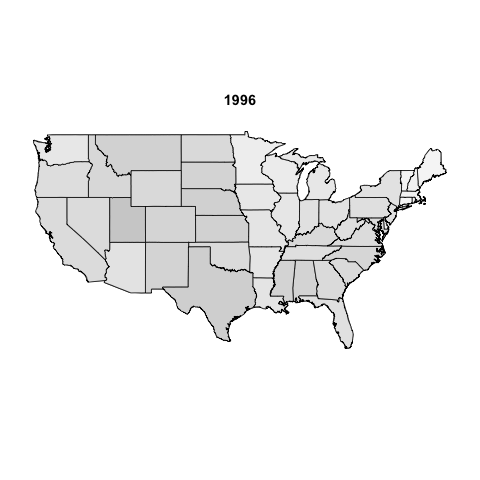
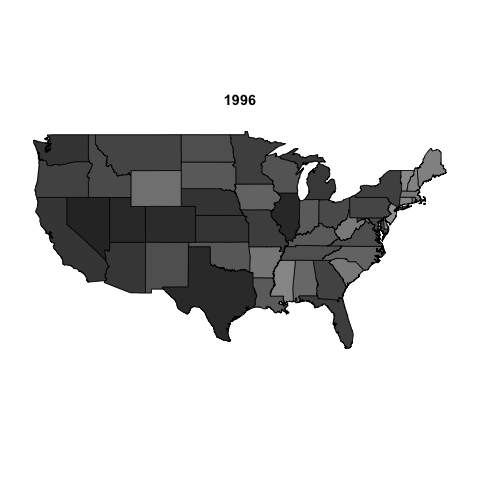
gini変更

Changed region(s): [[0.0625, 0.2812, 0.9375, 0.7188]]

diff --git a/qss/chapter5/gini/gini_coefficients.html b/qss/chapter5/gini/gini_coefficients.html
@@ -20,14 +20,11 @@
 	<div class="scianimator"><div id="Rplot" style="display: inline-block;"></div></div>
 	<div class="scianimator" style="width: 480px; text-align: left"><pre><code class="r">## Animations generated in R version 3.6.3 (2020-02-29)
 ##   using the package animation
-library(qss)
-library(ineq)
 library(animation)
+library(ineq)
 library(maps)
-library(devtools)
-library(usethis)
+library(qss)
 library(patchwork)
-library(magrittr)
 library(forcats)
 library(stringr)
 library(dplyr)
@@ -37,22 +34,22 @@ library(tidyr)
 library(tibble)
 library(ggplot2)
 library(tidyverse)
+library(magrittr)
+library(knitr)
 for (i in 1:14) {
     map(database = "state")
     for (j in 1:48) {
         map(database = "state", regions = as.character(gini_all_list[[i]]$state[j]), 
-            fill = TRUE, add = TRUE, col = rgb(blue = 1 - 
-              gini_all_list[[i]]$gini[j], green = 1 - gini_all_list[[i]]$gini[j], 
-              red = 1 - gini_all_list[[i]]$gini[j]))
+            fill = TRUE, add = TRUE, col = grey(1 - gini_all_list[[i]]$gini[j]))
     }
     title(as.character(1956 + i * 4))
 }
 ## R version 3.6.3 (2020-02-29)
 ## Platform: x86_64-apple-darwin15.6.0 (64-bit)
-## Other packages: qss 0.1.0.9000, ineq 0.2-13, animation 2.6, maps
-## 3.3.0, devtools 2.3.0, usethis 1.6.1, patchwork 1.0.0, magrittr 1.5,
-## forcats 0.5.0, stringr 1.4.0, dplyr 1.0.0, purrr 0.3.4, readr 1.3.1,
-## tidyr 1.1.0, tibble 3.0.1, ggplot2 3.3.1, tidyverse 1.3.0</code></pre></div>
+## Other packages: animation 2.6, ineq 0.2-13, maps 3.3.0, qss
+## 0.1.0.9000, patchwork 1.0.0, forcats 0.5.0, stringr 1.4.0, dplyr
+## 1.0.0, purrr 0.3.4, readr 1.3.1, tidyr 1.1.0, tibble 3.0.1, ggplot2
+## 3.3.1, tidyverse 1.3.0, magrittr 1.5, knitr 1.29</code></pre></div>
 	<script src="js/Rplot.js"></script>
 <!-- highlight R code -->
 
